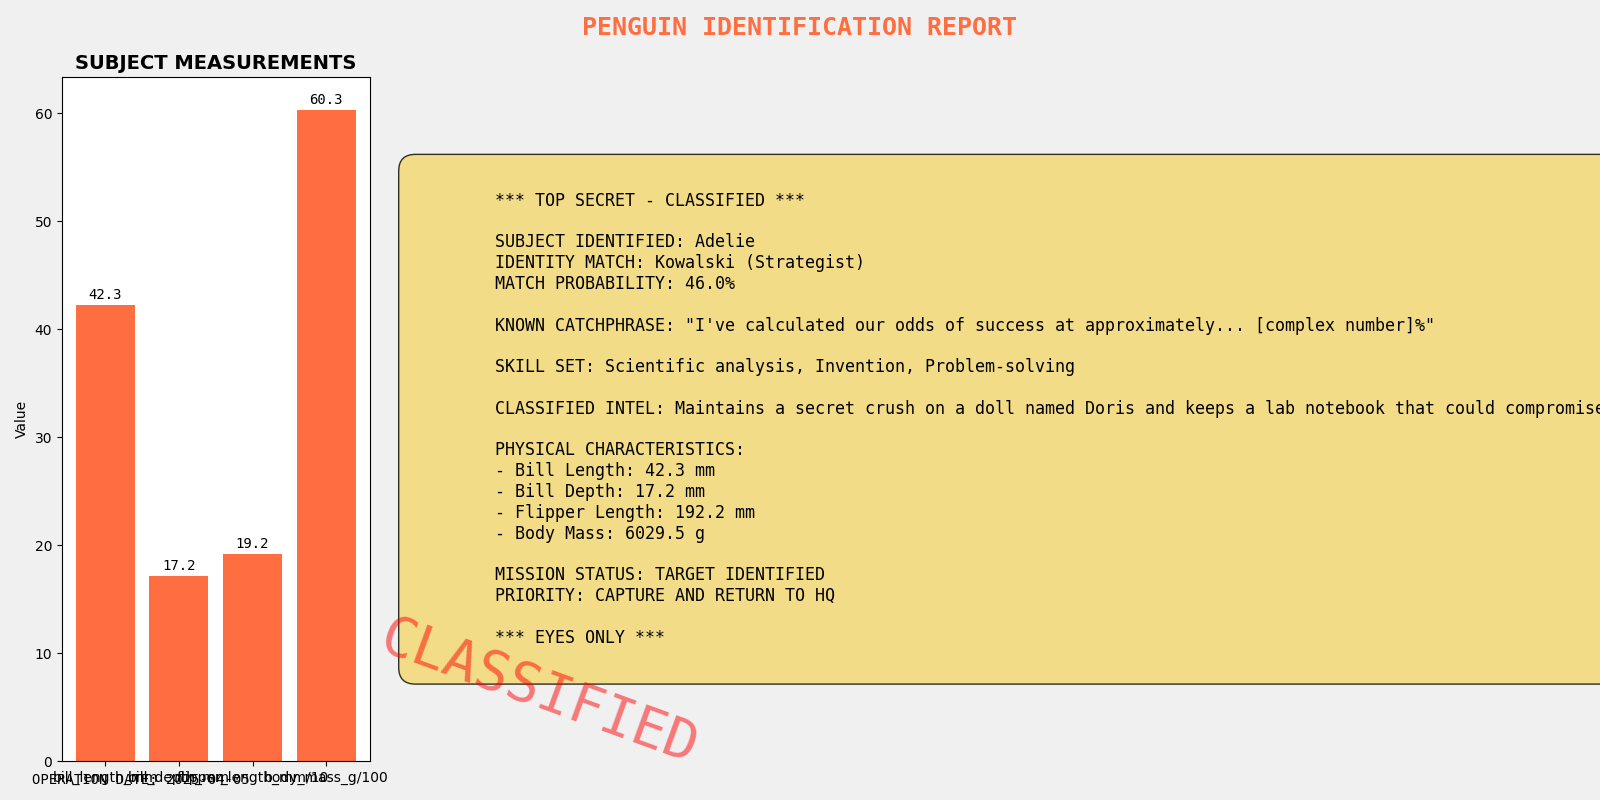
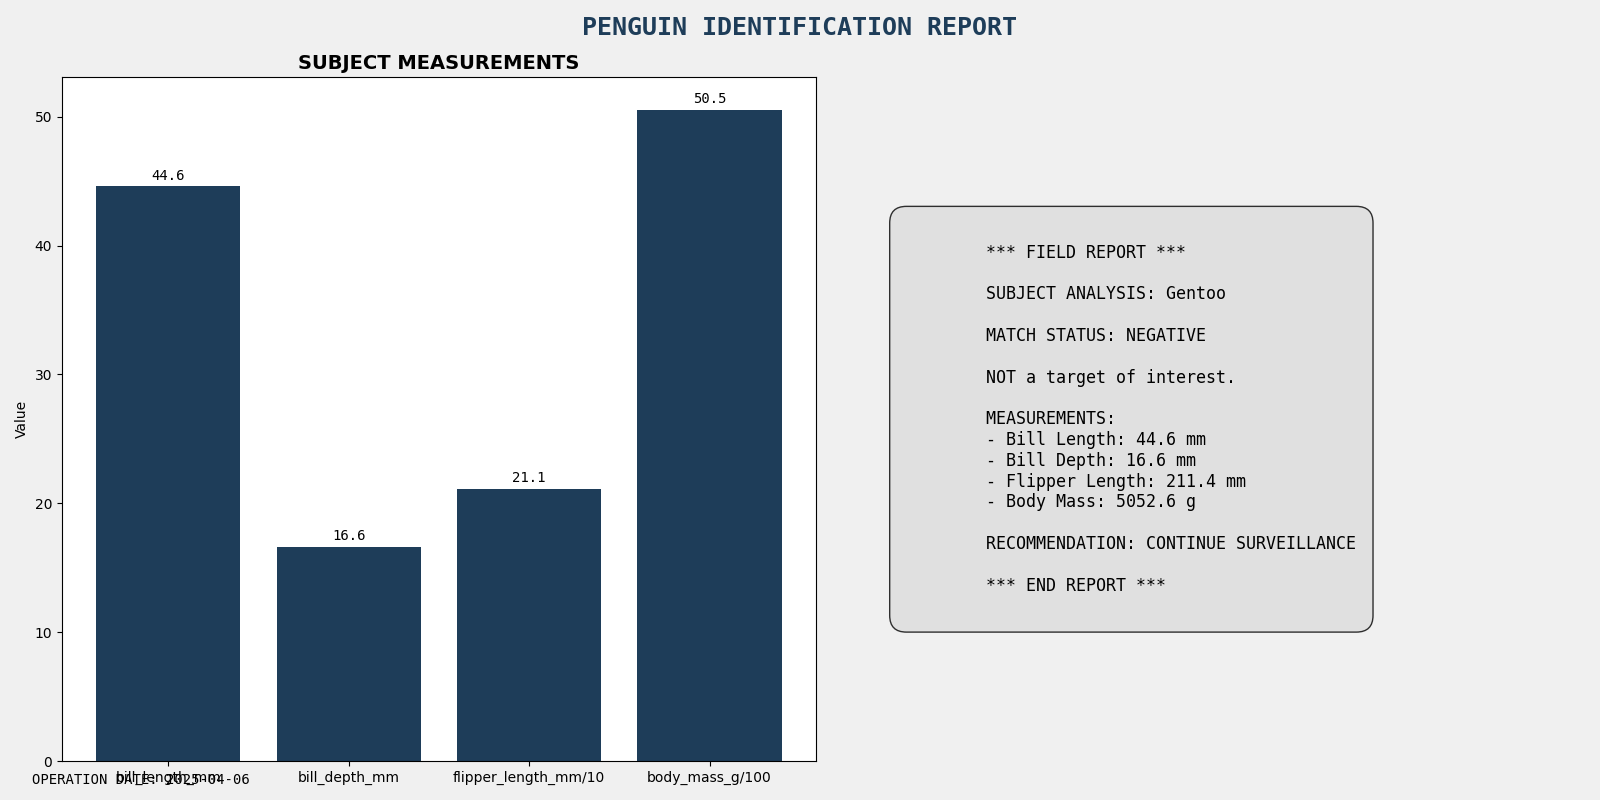
Update penguin prediction for 2025-04-06

diff --git a/data/predictions/index.html b/data/predictions/index.html
@@ -82,10 +82,10 @@
         </div>
         
         <div class="prediction">
-            <p>Latest Prediction (Date: 2025-04-05): 
-                <span class="adelie">Adelie</span>
+            <p>Latest Prediction (Date: 2025-04-06): 
+                <span class="other">Gentoo</span>
             </p>
-            <p>This is likely Kowalski from the Penguins of Madagascar!</p>
+            <p>Not one of the Penguins of Madagascar</p>
         </div>
         
         <div class="visualization">
@@ -95,17 +95,17 @@
         <div class="penguin-data">
             <h3>Penguin Measurements:</h3>
             <ul>
-                <li><strong>Bill Length:</strong> 42.27533941593972 mm</li>
-                <li><strong>Bill Depth:</strong> 17.18464932652063 mm</li>
-                <li><strong>Flipper Length:</strong> 192.21286291489838 mm</li>
-                <li><strong>Body Mass:</strong> 6029.452271307033 g</li>
+                <li><strong>Bill Length:</strong> 44.591049344317554 mm</li>
+                <li><strong>Bill Depth:</strong> 16.62642281800148 mm</li>
+                <li><strong>Flipper Length:</strong> 211.37613907921613 mm</li>
+                <li><strong>Body Mass:</strong> 5052.641450137844 g</li>
             </ul>
         </div>
         
         <div class="stats">
             <h3>Statistics</h3>
-            <p>Total penguins detected: 22</p>
-            <p>Adelie penguins detected: 16 (72.7% of total)</p>
+            <p>Total penguins detected: 23</p>
+            <p>Adelie penguins detected: 16 (69.6% of total)</p>
             <p>Model used: RandomForest</p>
         </div>
         
@@ -117,7 +117,7 @@
                     <th>Species</th>
                     <th>Adelie?</th>
                 </tr>
-                <tr><td>2025-03-27</td><td>Adelie</td><td>Yes</td></tr><tr><td>2025-03-28</td><td>Adelie</td><td>Yes</td></tr><tr><td>2025-03-29</td><td>Adelie</td><td>Yes</td></tr><tr><td>2025-03-30</td><td>Gentoo</td><td>No</td></tr><tr><td>2025-03-31</td><td>Adelie</td><td>Yes</td></tr><tr><td>2025-04-01</td><td>Adelie</td><td>Yes</td></tr><tr><td>2025-04-02</td><td>Adelie</td><td>Yes</td></tr><tr><td>2025-04-03</td><td>Chinstrap</td><td>No</td></tr><tr><td>2025-04-04</td><td>Adelie</td><td>Yes</td></tr><tr><td>2025-04-05</td><td>Adelie</td><td>Yes</td></tr>
+                <tr><td>2025-03-28</td><td>Adelie</td><td>Yes</td></tr><tr><td>2025-03-29</td><td>Adelie</td><td>Yes</td></tr><tr><td>2025-03-30</td><td>Gentoo</td><td>No</td></tr><tr><td>2025-03-31</td><td>Adelie</td><td>Yes</td></tr><tr><td>2025-04-01</td><td>Adelie</td><td>Yes</td></tr><tr><td>2025-04-02</td><td>Adelie</td><td>Yes</td></tr><tr><td>2025-04-03</td><td>Chinstrap</td><td>No</td></tr><tr><td>2025-04-04</td><td>Adelie</td><td>Yes</td></tr><tr><td>2025-04-05</td><td>Adelie</td><td>Yes</td></tr><tr><td>2025-04-06</td><td>Gentoo</td><td>No</td></tr>
             </table>
         </div>
     </div>

diff --git a/index.html b/index.html
@@ -82,10 +82,10 @@
         </div>
         
         <div class="prediction">
-            <p>Latest Prediction (Date: 2025-04-05): 
-                <span class="adelie">Adelie</span>
+            <p>Latest Prediction (Date: 2025-04-06): 
+                <span class="other">Gentoo</span>
             </p>
-            <p>This is likely Kowalski from the Penguins of Madagascar!</p>
+            <p>Not one of the Penguins of Madagascar</p>
         </div>
         
         <div class="visualization">
@@ -95,17 +95,17 @@
         <div class="penguin-data">
             <h3>Penguin Measurements:</h3>
             <ul>
-                <li><strong>Bill Length:</strong> 42.27533941593972 mm</li>
-                <li><strong>Bill Depth:</strong> 17.18464932652063 mm</li>
-                <li><strong>Flipper Length:</strong> 192.21286291489838 mm</li>
-                <li><strong>Body Mass:</strong> 6029.452271307033 g</li>
+                <li><strong>Bill Length:</strong> 44.591049344317554 mm</li>
+                <li><strong>Bill Depth:</strong> 16.62642281800148 mm</li>
+                <li><strong>Flipper Length:</strong> 211.37613907921613 mm</li>
+                <li><strong>Body Mass:</strong> 5052.641450137844 g</li>
             </ul>
         </div>
         
         <div class="stats">
             <h3>Statistics</h3>
-            <p>Total penguins detected: 22</p>
-            <p>Adelie penguins detected: 16 (72.7% of total)</p>
+            <p>Total penguins detected: 23</p>
+            <p>Adelie penguins detected: 16 (69.6% of total)</p>
             <p>Model used: RandomForest</p>
         </div>
         
@@ -117,7 +117,7 @@
                     <th>Species</th>
                     <th>Adelie?</th>
                 </tr>
-                <tr><td>2025-03-27</td><td>Adelie</td><td>Yes</td></tr><tr><td>2025-03-28</td><td>Adelie</td><td>Yes</td></tr><tr><td>2025-03-29</td><td>Adelie</td><td>Yes</td></tr><tr><td>2025-03-30</td><td>Gentoo</td><td>No</td></tr><tr><td>2025-03-31</td><td>Adelie</td><td>Yes</td></tr><tr><td>2025-04-01</td><td>Adelie</td><td>Yes</td></tr><tr><td>2025-04-02</td><td>Adelie</td><td>Yes</td></tr><tr><td>2025-04-03</td><td>Chinstrap</td><td>No</td></tr><tr><td>2025-04-04</td><td>Adelie</td><td>Yes</td></tr><tr><td>2025-04-05</td><td>Adelie</td><td>Yes</td></tr>
+                <tr><td>2025-03-28</td><td>Adelie</td><td>Yes</td></tr><tr><td>2025-03-29</td><td>Adelie</td><td>Yes</td></tr><tr><td>2025-03-30</td><td>Gentoo</td><td>No</td></tr><tr><td>2025-03-31</td><td>Adelie</td><td>Yes</td></tr><tr><td>2025-04-01</td><td>Adelie</td><td>Yes</td></tr><tr><td>2025-04-02</td><td>Adelie</td><td>Yes</td></tr><tr><td>2025-04-03</td><td>Chinstrap</td><td>No</td></tr><tr><td>2025-04-04</td><td>Adelie</td><td>Yes</td></tr><tr><td>2025-04-05</td><td>Adelie</td><td>Yes</td></tr><tr><td>2025-04-06</td><td>Gentoo</td><td>No</td></tr>
             </table>
         </div>
     </div>
